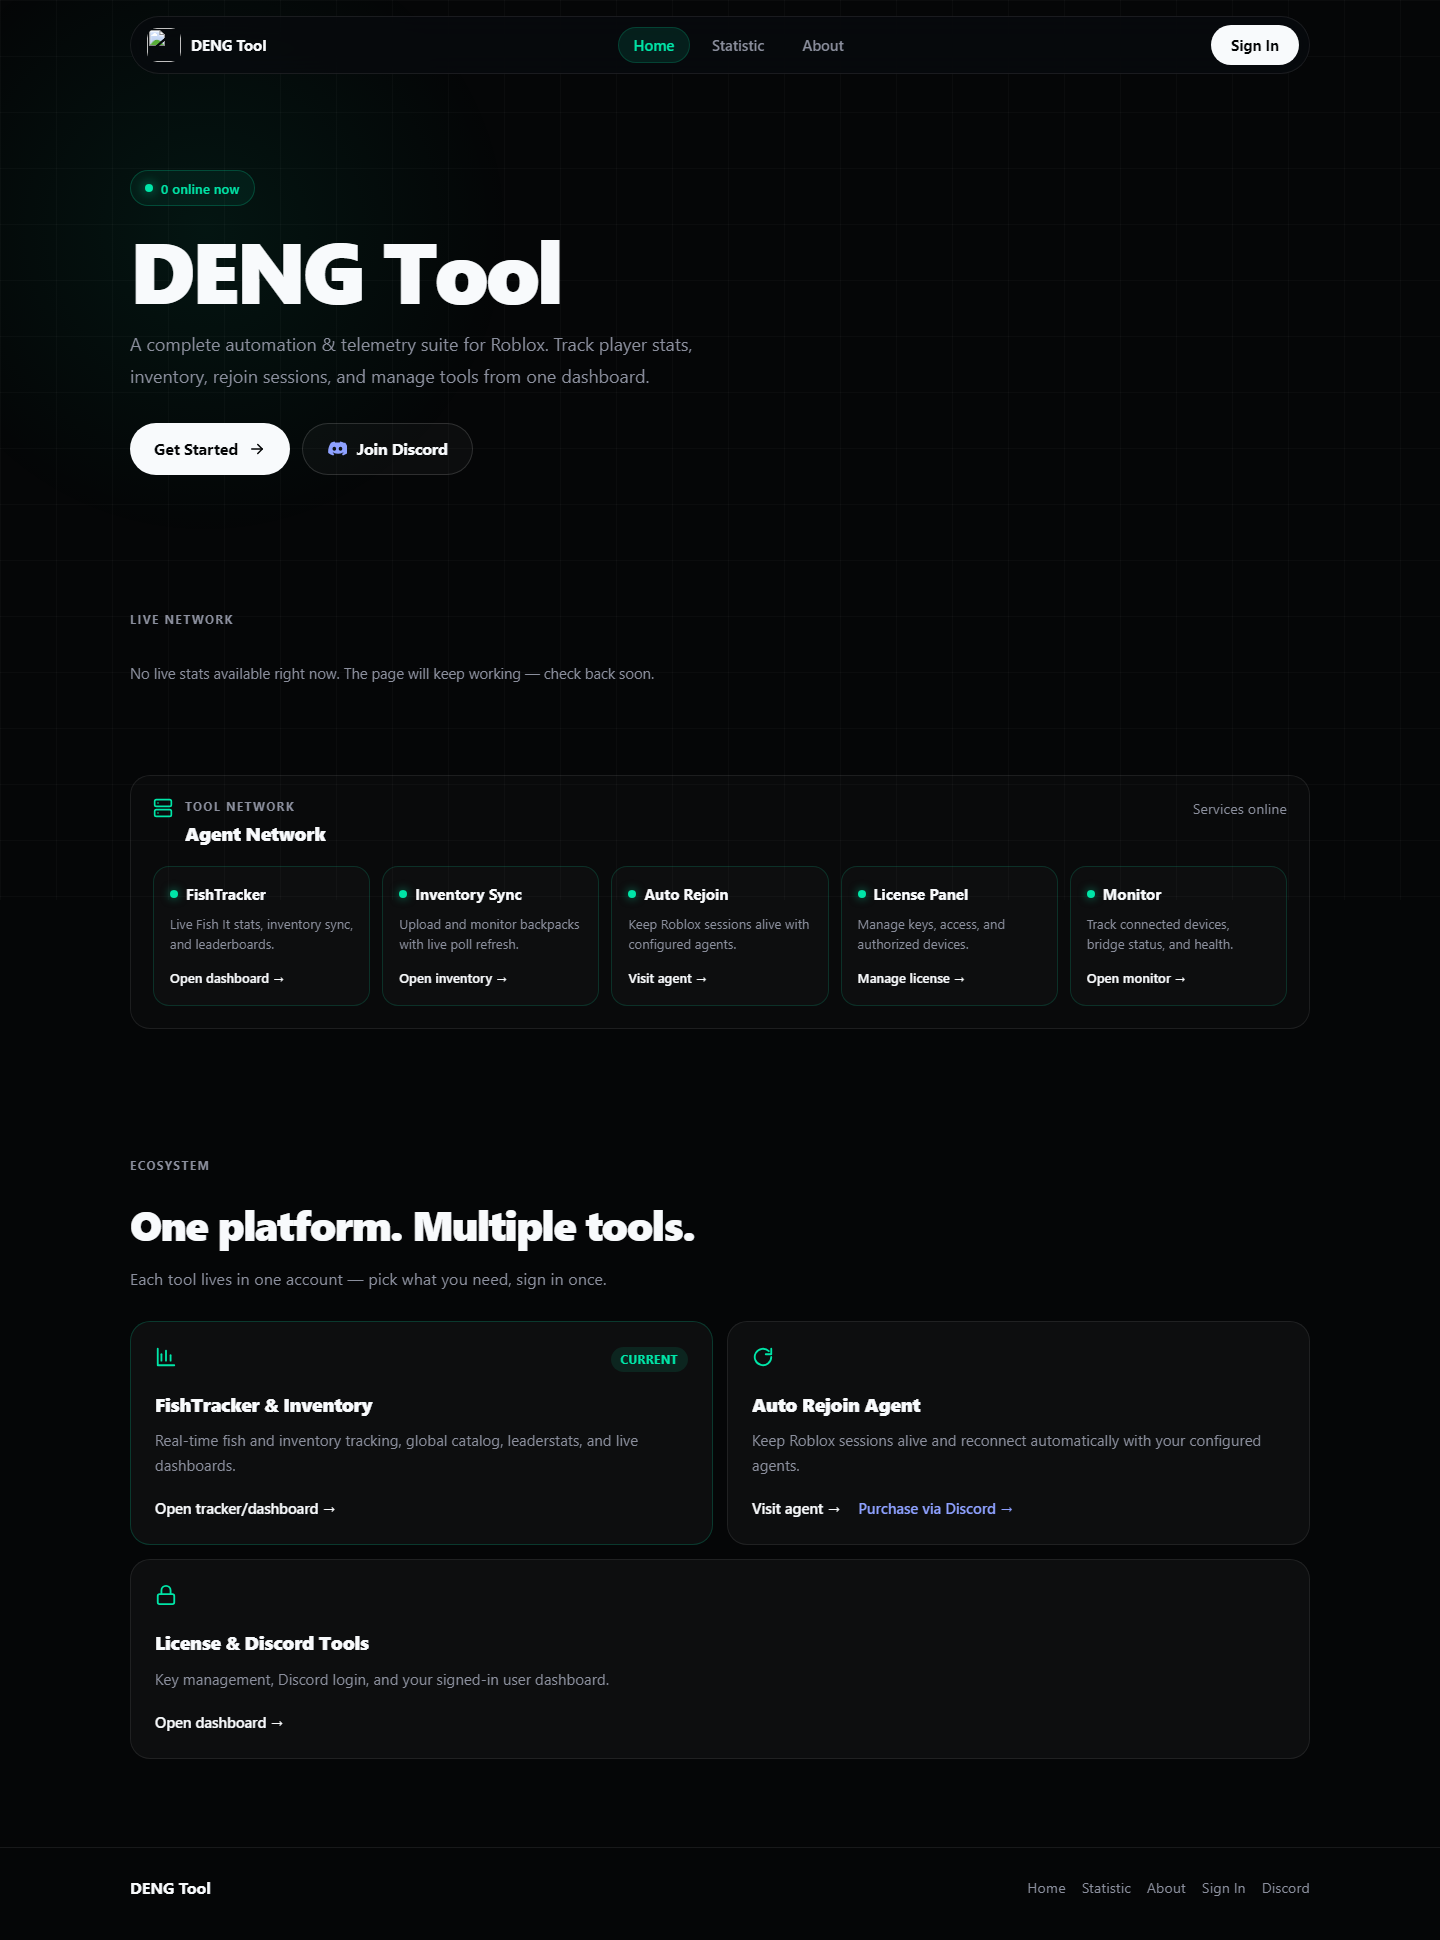
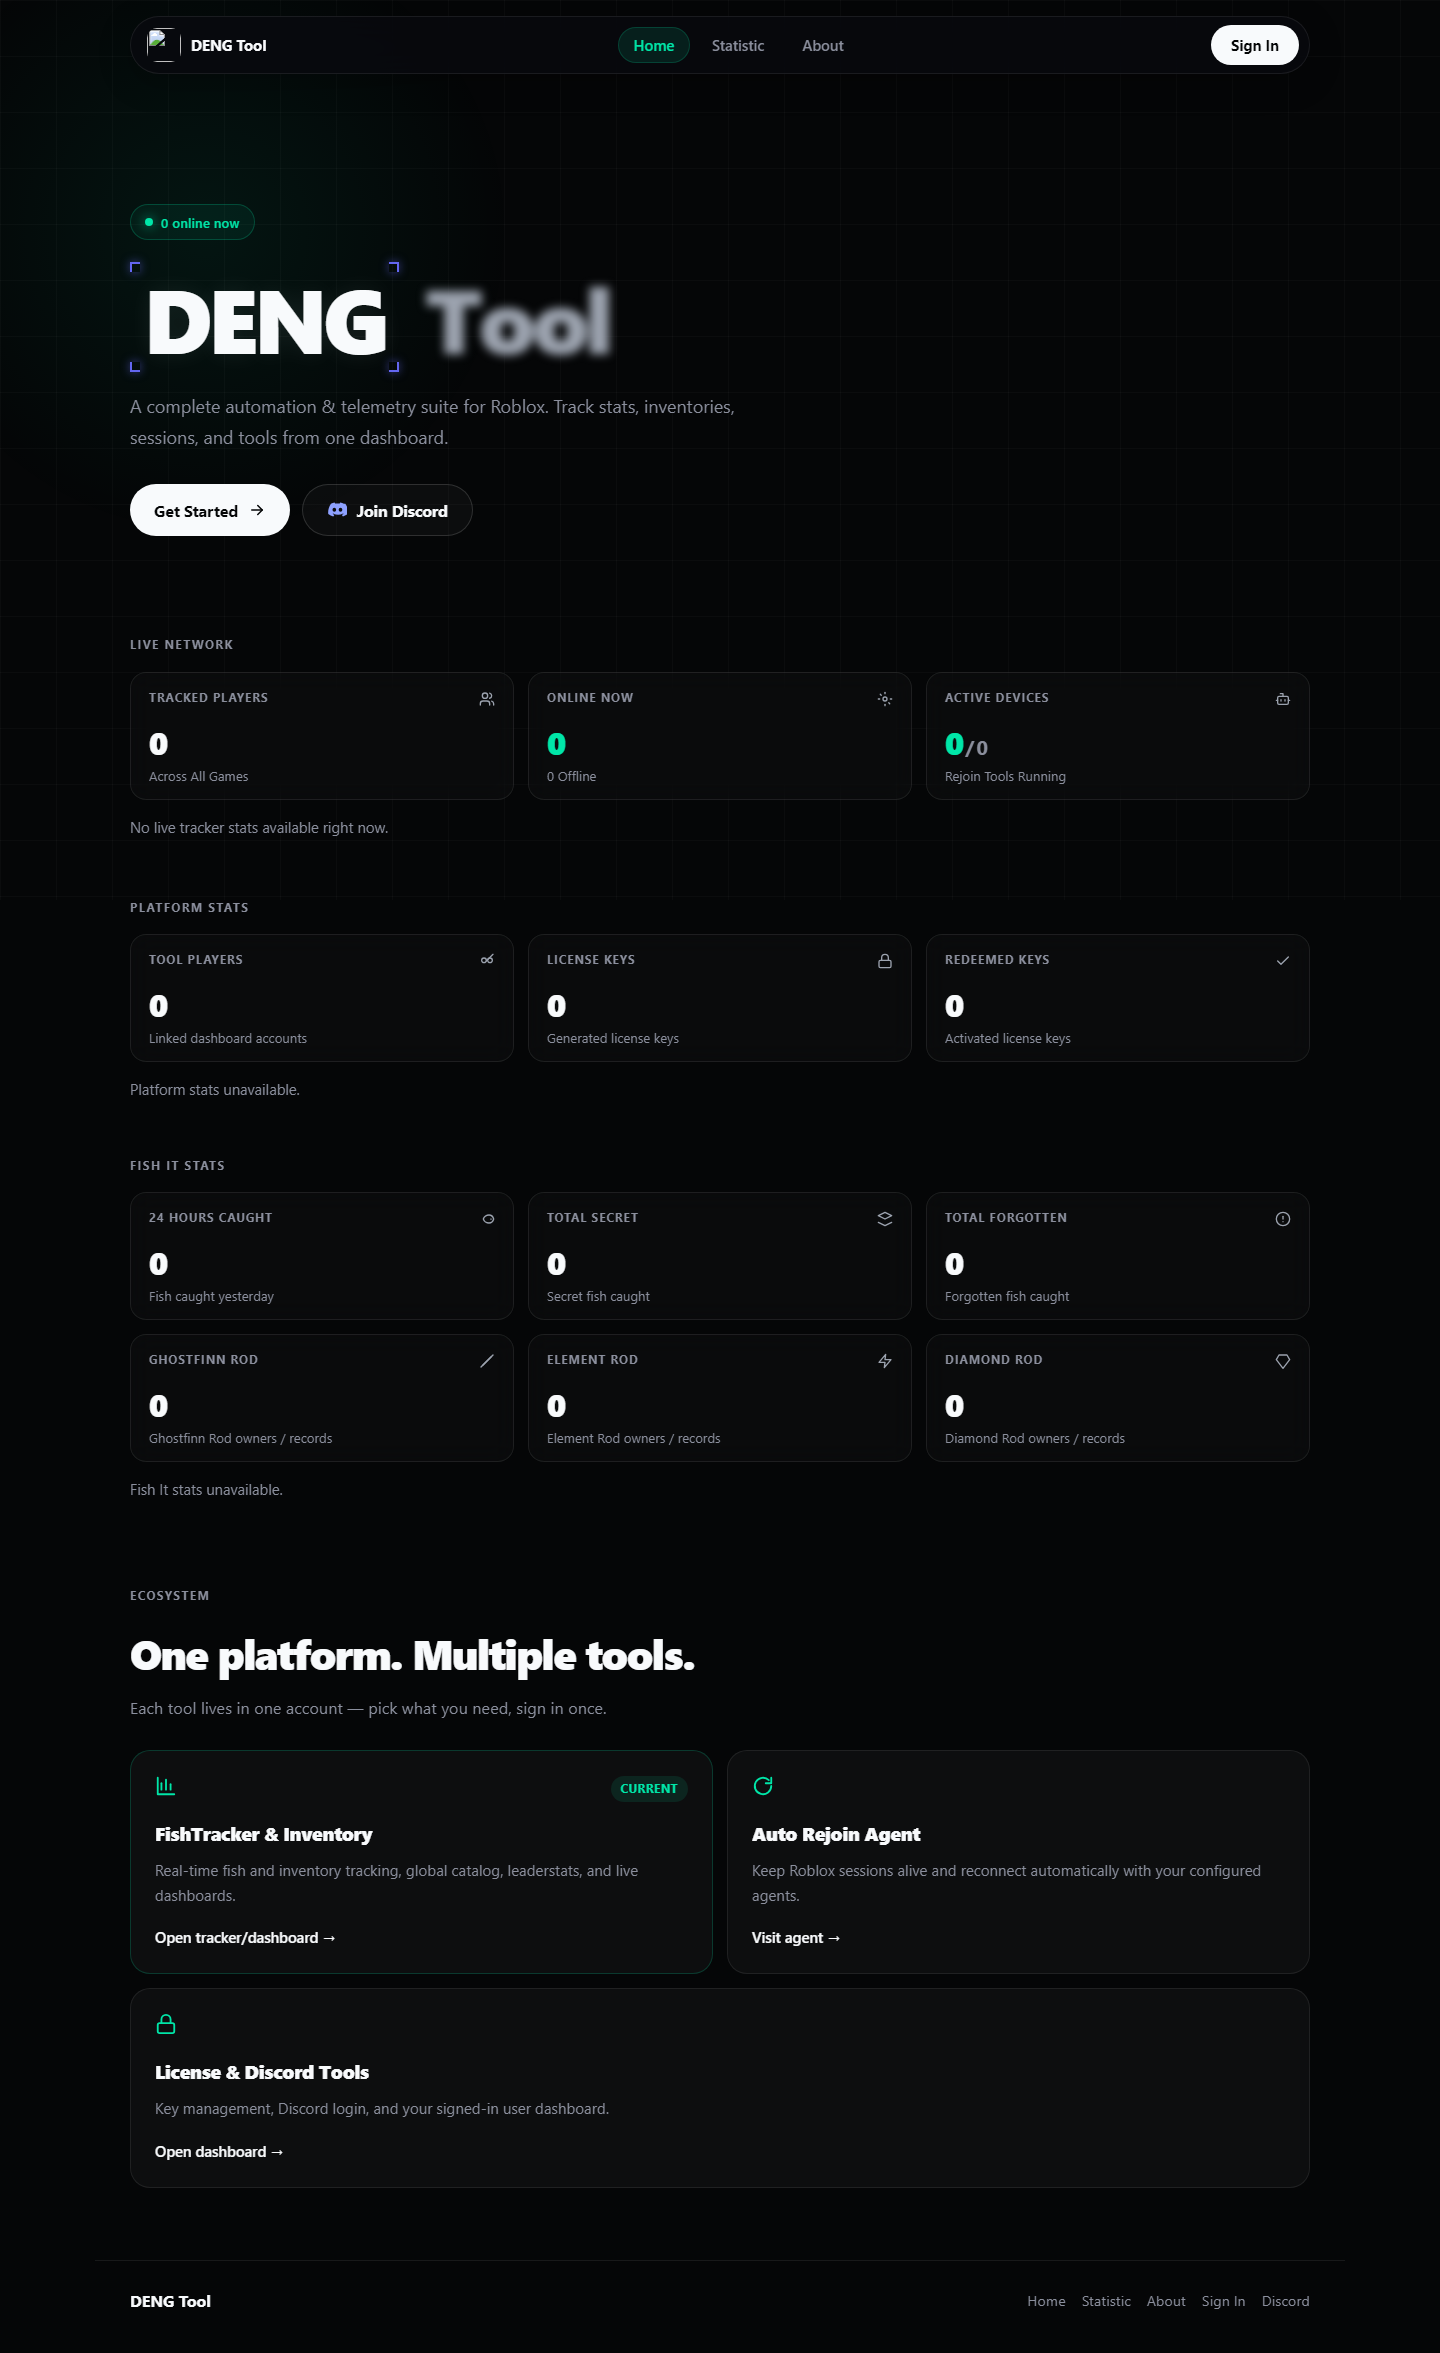
Remove DENG Tools network section from the homepage on all devices.
Delete the Tool Network card grid markup and dedicated CSS so Fish It stats flow directly into the Ecosystem section without leftover spacing.

diff --git a/site/public/css/home.css b/site/public/css/home.css
@@ -554,129 +554,6 @@
   font-size: 0.92rem;
 }
 
-/* ── Network panel ── */
-.deng-home-section--network {
-  padding-top: 12px;
-}
-
-.deng-home-network-panel {
-  padding: 22px;
-  border-radius: 20px;
-  border: 1px solid var(--public-border);
-  background: var(--public-surface-soft);
-}
-
-.deng-home-network-panel__head {
-  display: flex;
-  align-items: flex-start;
-  justify-content: space-between;
-  gap: 16px;
-  margin-bottom: 18px;
-}
-
-.deng-home-network-panel__title-wrap {
-  display: flex;
-  align-items: flex-start;
-  gap: 12px;
-}
-
-.deng-home-network-panel__icon svg {
-  width: 20px;
-  height: 20px;
-  stroke: var(--public-accent);
-  fill: none;
-  stroke-width: 2;
-  stroke-linecap: round;
-  stroke-linejoin: round;
-}
-
-.deng-home-network-panel__title {
-  margin: 0;
-  font-size: 1.2rem;
-  font-weight: 800;
-  letter-spacing: -0.02em;
-}
-
-.deng-home-network-panel__status {
-  margin: 0;
-  color: var(--public-muted);
-  font-size: 0.9rem;
-  white-space: nowrap;
-}
-
-.deng-home-network-panel__status strong,
-.deng-home-network-panel__status .is-accent {
-  color: var(--public-accent);
-  font-weight: 700;
-}
-
-.deng-home-node-grid {
-  display: grid;
-  grid-template-columns: repeat(5, minmax(0, 1fr));
-  gap: 12px;
-}
-
-.deng-home-node-card {
-  padding: 16px;
-  border-radius: 16px;
-  border: 1px solid var(--public-border);
-  background: rgba(255, 255, 255, 0.02);
-  transition: border-color 0.15s ease, box-shadow 0.15s ease;
-}
-
-.deng-home-node-card--online {
-  border-color: rgba(0, 230, 168, 0.16);
-}
-
-.deng-home-node-card:hover {
-  border-color: rgba(0, 230, 168, 0.28);
-  box-shadow: 0 0 0 1px rgba(0, 230, 168, 0.08);
-}
-
-.deng-home-node-card__head {
-  display: flex;
-  align-items: center;
-  gap: 8px;
-  margin-bottom: 8px;
-}
-
-.deng-home-node-card__dot {
-  width: 8px;
-  height: 8px;
-  border-radius: 999px;
-  background: var(--public-muted-2);
-}
-
-.deng-home-node-card--online .deng-home-node-card__dot {
-  background: var(--public-accent);
-  box-shadow: 0 0 10px rgba(0, 230, 168, 0.55);
-}
-
-.deng-home-node-card h3 {
-  margin: 0;
-  font-size: 0.95rem;
-  font-weight: 700;
-  color: var(--public-text);
-}
-
-.deng-home-node-card p {
-  margin: 0 0 12px;
-  color: var(--public-muted);
-  font-size: 0.82rem;
-  line-height: 1.5;
-}
-
-.deng-home-node-link {
-  color: var(--public-text);
-  font-size: 0.82rem;
-  font-weight: 600;
-  text-decoration: none;
-}
-
-.deng-home-node-link:hover {
-  color: var(--public-accent);
-}
-
 /* ── Ecosystem cards ── */
 .deng-home-eco-grid {
   display: grid;
@@ -806,12 +683,6 @@
 }
 
 /* ── Responsive ── */
-@media (max-width: 1024px) {
-  .deng-home-node-grid {
-    grid-template-columns: repeat(3, minmax(0, 1fr));
-  }
-}
-
 @media (max-width: 860px) {
   .deng-home-nav__inner {
     grid-template-columns: 1fr auto;
@@ -863,10 +734,6 @@
     padding-right: 12px;
   }
 
-  .deng-home-node-grid {
-    grid-template-columns: 1fr;
-  }
-
   .deng-home-hero__actions {
     flex-direction: column;
     align-items: stretch;
@@ -874,10 +741,6 @@
 
   .deng-home-btn {
     width: 100%;
-  }
-
-  .deng-home-network-panel__head {
-    flex-direction: column;
   }
 }
 

diff --git a/site/proofs/home_landing_proof.html b/site/proofs/home_landing_proof.html
@@ -229,51 +229,6 @@
       </div>
     </section>
 
-    <section class="deng-home-section deng-home-section--network deng-home-anchor" id="tools" aria-labelledby="home-network-title">
-      <div class="deng-home-container">
-        <div class="deng-home-network-panel">
-          <div class="deng-home-network-panel__head">
-            <div class="deng-home-network-panel__title-wrap">
-              <span class="deng-home-network-panel__icon" aria-hidden="true">
-                <svg viewBox="0 0 24 24"><rect x="2" y="2" width="20" height="8" rx="2"></rect><rect x="2" y="14" width="20" height="8" rx="2"></rect><path d="M6 6h.01"></path><path d="M6 18h.01"></path></svg>
-              </span>
-              <div>
-                <p class="deng-home-eyebrow deng-home-eyebrow--inline">Tool Network</p>
-                <h2 id="home-network-title" class="deng-home-network-panel__title">DENG Tools</h2>
-              </div>
-            </div>
-          </div>
-          <div class="deng-home-node-grid">
-            <article class="deng-home-node-card">
-              <div class="deng-home-node-card__head"><h3>FishTracker</h3></div>
-              <p>Live Fish It stats, inventory sync, and leaderboards.</p>
-              <a class="deng-home-node-link" href="/login?return=/inventory">Open dashboard →</a>
-            </article>
-            <article class="deng-home-node-card">
-              <div class="deng-home-node-card__head"><h3>Inventory Sync</h3></div>
-              <p>Upload and monitor backpacks with live poll refresh.</p>
-              <a class="deng-home-node-link" href="/login?return=/inventory">Open inventory →</a>
-            </article>
-            <article class="deng-home-node-card">
-              <div class="deng-home-node-card__head"><h3>Auto Rejoin</h3></div>
-              <p>Keep Roblox sessions alive with configured agents.</p>
-              <a class="deng-home-node-link" href="/login?return=/download">Visit agent →</a>
-            </article>
-            <article class="deng-home-node-card">
-              <div class="deng-home-node-card__head"><h3>License Panel</h3></div>
-              <p>Manage keys, access, and authorized devices.</p>
-              <a class="deng-home-node-link" href="/login?return=/license">Manage license →</a>
-            </article>
-            <article class="deng-home-node-card">
-              <div class="deng-home-node-card__head"><h3>Discord Tools</h3></div>
-              <p>Sign in once for dashboard, keys, and account tools.</p>
-              <a class="deng-home-node-link" href="/login?return=/dashboard">Open dashboard →</a>
-            </article>
-          </div>
-        </div>
-      </div>
-    </section>
-
     <section class="deng-home-section deng-home-anchor" id="about" aria-labelledby="home-ecosystem-title" data-home-section="about">
       <div class="deng-home-container">
         <p class="deng-home-eyebrow">Ecosystem</p>

diff --git a/site/tests/home_stats_sources.test.js b/site/tests/home_stats_sources.test.js
@@ -141,4 +141,14 @@ describe('landing stat sources and layout regression', () => {
     assert.match(res.text, /data-count-duration="1200"/);
     assert.doesNotMatch(res.text, /data-count-duration="750"/);
   });
+
+  test('landing page omits removed DENG Tools network section', async () => {
+    const res = await request(app).get('/');
+    assert.doesNotMatch(res.text, /DENG Tools/);
+    assert.doesNotMatch(res.text, /id="tools"/);
+    assert.doesNotMatch(res.text, /deng-home-network-panel/);
+    assert.doesNotMatch(res.text, /deng-home-node-grid/);
+    assert.match(res.text, /id="about"/);
+    assert.match(res.text, /One platform\. Multiple tools\./);
+  });
 });